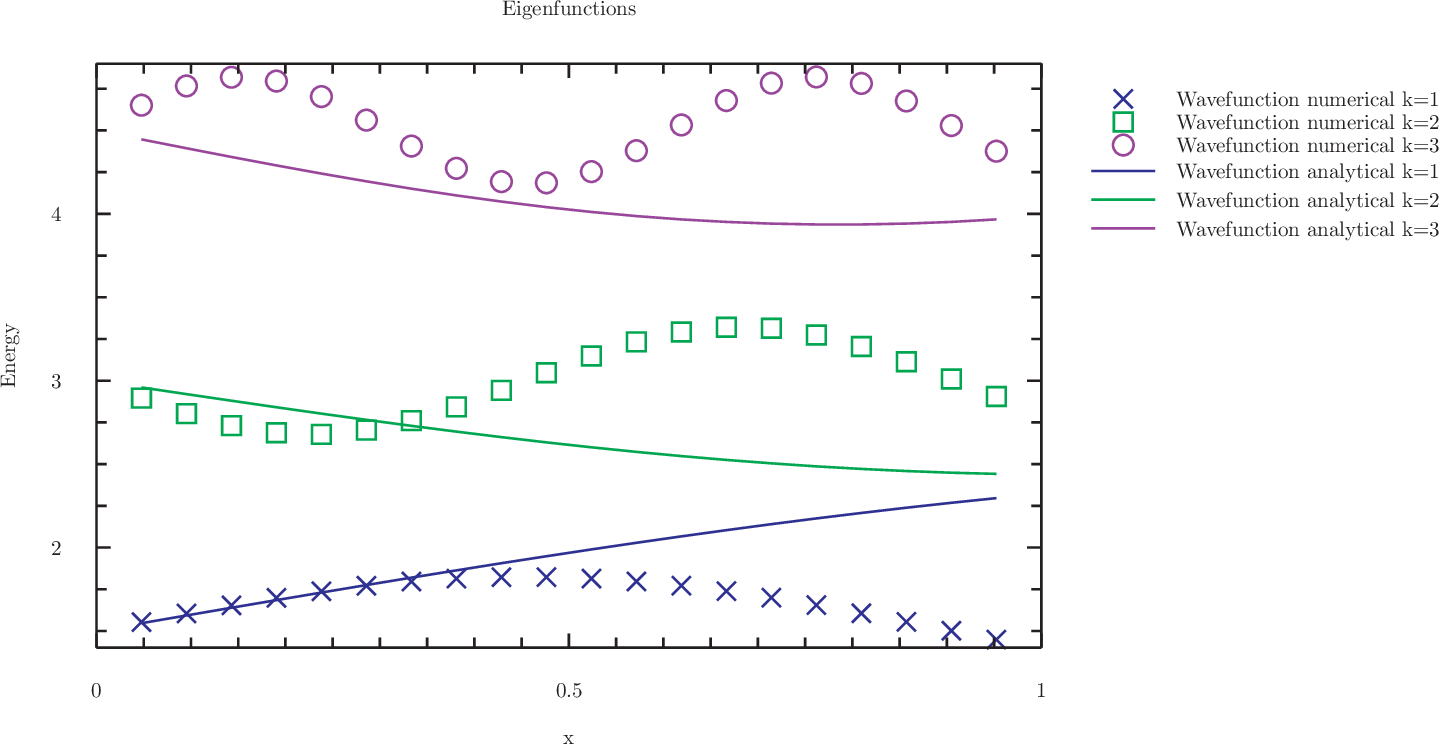
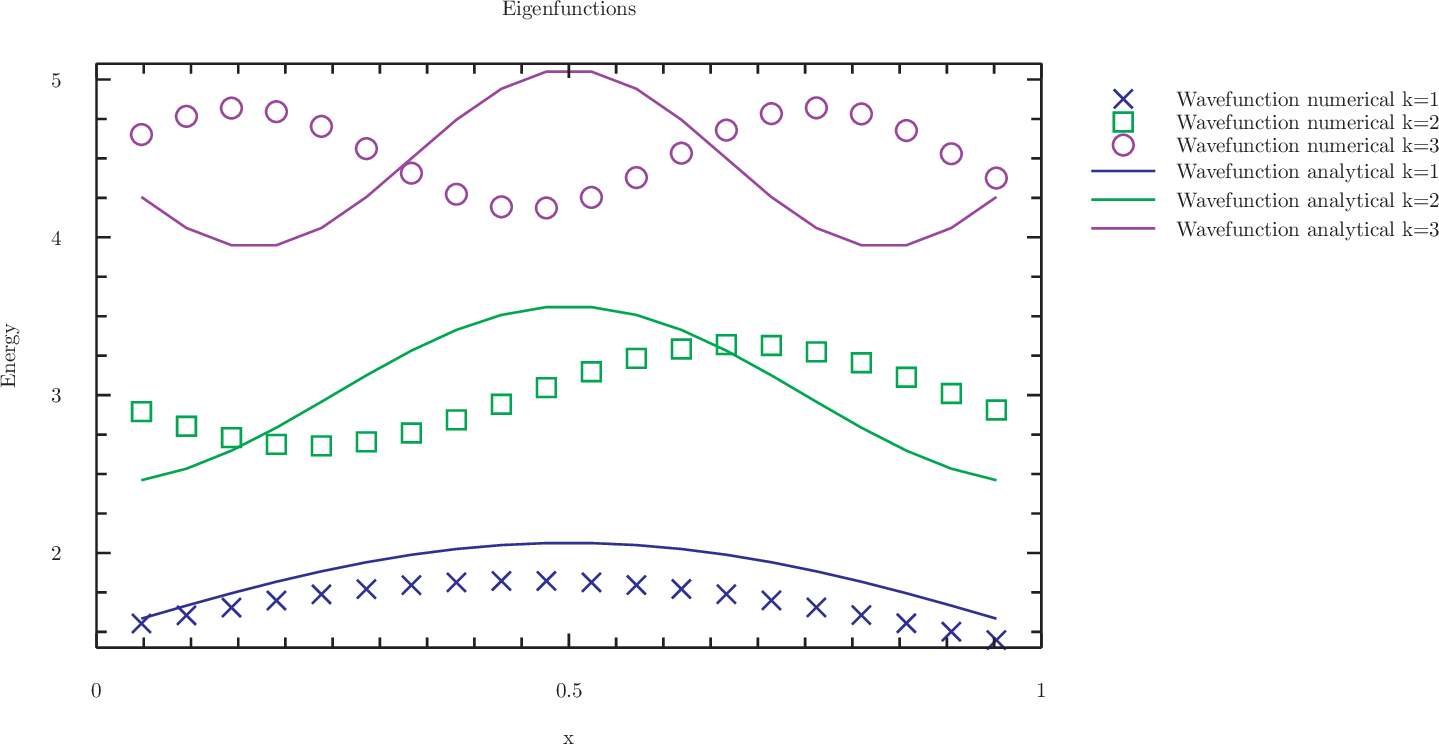
Initial commit

diff --git a/homework/MatrixDiagonalization/main.c b/homework/MatrixDiagonalization/main.c
@@ -159,7 +159,7 @@ printf("\n\n");
 printf("#index1: numerical vs analytical(Til plotning)\n");
  	for(int i=0;i<N;i++){
 	double k=(i+1.0)/(N+1);
-	printf("%6g %6g %6g %6g %6g %6g %6g %6g %6g\n",k, gsl_matrix_get(V_h,i,0), gsl_matrix_get(V_h,i,1)+1.5, gsl_matrix_get(V_h,i,2)+3,gsl_matrix_get(V_h,i,3)+4.5, sqrt(1/M_PI)*sin(k/2),sqrt(3/M_PI)*sin(2*k/2)+1.5,-sqrt(1/M_PI)*sin(3*k/2)+3,-sqrt(1/M_PI)*sin(4*k/2)+4.5);
+	printf("%6g %6g %6g %6g %6g %6g %6g %6g %6g\n",k, gsl_matrix_get(V_h,i,0), gsl_matrix_get(V_h,i,1)+1.5, gsl_matrix_get(V_h,i,2)+3,gsl_matrix_get(V_h,i,3)+4.5, sqrt(1/M_PI)*sin(k/2),sqrt(1/M_PI)*sin(k*M_PI)+1.5,-sqrt(1/M_PI)*cos(k*2*M_PI)+3,-sqrt(1/M_PI)*sin(3*k*M_PI)+4.5);
 	}
 
 
